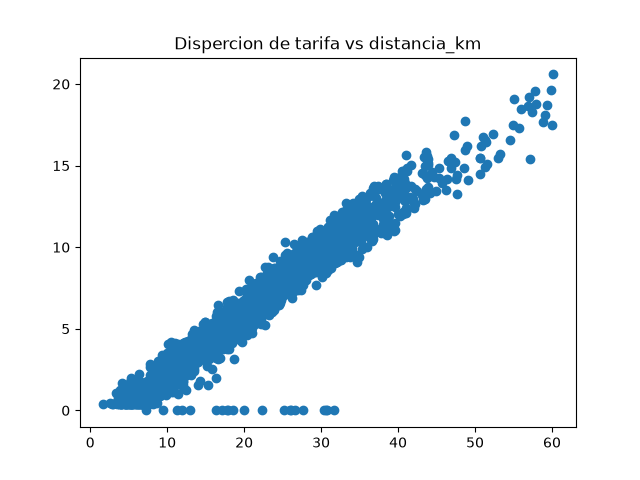
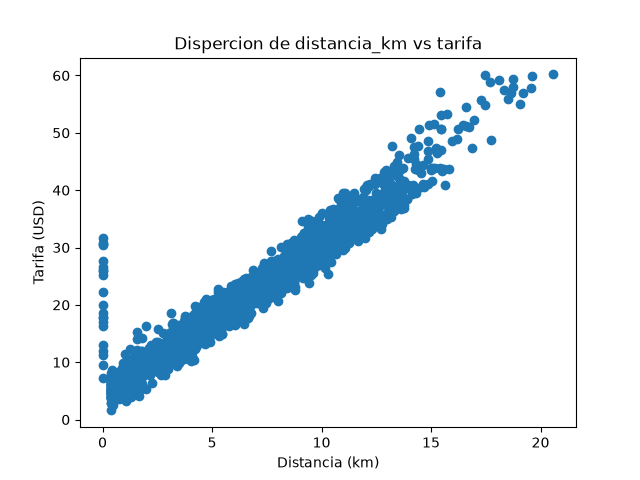
Semana 8 sesion 2: ejercicios 1, 2 y 3 de EDA

diff --git a/laboratorios/semana-08-sesion-02/plantilla-eda/explorar_proyecto.py b/laboratorios/semana-08-sesion-02/plantilla-eda/explorar_proyecto.py
@@ -5,13 +5,48 @@ import pandas as pd
 
 os.makedirs("figuras", exist_ok=True)
 
-# TODO: reemplaza por la ruta del archivo que tu pipeline de la Semana 7
-# deja listo para modelar (una tabla del warehouse exportada a CSV, o el
-# CSV limpio de tu etapa de calidad).
-datos = pd.read_csv("TODO_ruta_del_archivo.csv")
+# El archivo tiene 59 millones de filas (13 GB descomprimido), no entra en memoria.
+# Lo leo por partes (chunks): de cada parte cuento los totales exactos y
+# guardo una muestra al azar del 1% para los graficos.
+RUTA = "datos/obt_sales.csv.gz" #pandas lee el .gz directo, no hay que descomprimirlo
+COLUMNAS = [
+    "DATE", "ITEM_ID", "CAT_ID", "STORE_ID", "STATE_ID", "UNITS", "SELL_PRICE",
+    "REVENUE", "WEEKDAY", "IS_WEEKEND", "MONTH", "YEAR", "IS_EVENT_DAY", "IS_SNAP",
+    "IS_PRE_LAUNCH", "IS_STORE_CLOSED", "IS_SALES_SPIKE", "IS_SUSPECTED_STOCKOUT_CONSERVATIVE",
+]
 
 # TODO: reemplaza por el nombre de la columna que tu modelo va a predecir.
-OBJETIVO = "TODO_columna_objetivo"
+OBJETIVO = "UNITS" #unidades vendidas de un producto en una tienda en un dia
+
+total_filas = 0
+faltantes = 0
+ceros = 0
+pre_lanzamiento = 0
+tienda_cerrada = 0
+sin_stock = 0
+muestras = []
+
+for parte in pd.read_csv(RUTA, usecols=COLUMNAS, chunksize=2_000_000):
+    total_filas += len(parte)
+    faltantes = faltantes + parte.isna().sum() #va sumando los vacios de cada columna
+    ceros += (parte[OBJETIVO] == 0).sum()
+    pre_lanzamiento += parte["IS_PRE_LAUNCH"].sum()
+    tienda_cerrada += parte["IS_STORE_CLOSED"].sum()
+    sin_stock += parte["IS_SUSPECTED_STOCKOUT_CONSERVATIVE"].sum()
+    muestras.append(parte.sample(frac=0.01, random_state=42)) #1% al azar de cada parte
+
+datos = pd.concat(muestras, ignore_index=True)
+
+print("----- TOTALES EXACTOS DEL ARCHIVO COMPLETO -----")
+print("Filas totales:", total_filas)
+print("Faltantes por columna:")
+print(faltantes)
+print(f"Dias con {OBJETIVO} = 0: {ceros} ({ceros / total_filas:.1%})")
+print(f"Filas antes del lanzamiento del producto: {pre_lanzamiento} ({pre_lanzamiento / total_filas:.1%})")
+print(f"Filas con tienda cerrada: {tienda_cerrada}")
+print(f"Filas con sospecha de falta de stock: {sin_stock} ({sin_stock / total_filas:.1%})")
+
+print("----- DESDE AQUI TODO ES CON LA MUESTRA DEL 1% -----")
 
 # Paso 1: resumen.
 print("Filas y columnas:", datos.shape)
@@ -20,9 +55,24 @@ print(datos.isna().sum())
 print(datos.describe().round(2))
 
 # Paso 2: distribucion de la variable objetivo.
-plt.figure()
-plt.hist(datos[OBJETIVO], bins=40)
-plt.title(OBJETIVO)
+# Con un histograma normal todo cae en la primera barra: casi todo esta entre 0 y 5
+# pero el maximo es 544. Por eso hago dos graficos y sin los dias antes del lanzamiento.
+vendiendo = datos[~datos["IS_PRE_LAUNCH"]] #el ~ es para negar, me quedo con los que no son pre lanzamiento
+conteo = vendiendo[OBJETIVO].value_counts().sort_index().loc[0:20] #cuantos dias con 0, 1, 2... hasta 20 unidades
+
+fig, (izq, der) = plt.subplots(1, 2, figsize=(12, 4.5))
+izq.bar(conteo.index, conteo.values)
+izq.set_title(f"{OBJETIVO} de 0 a 20")
+izq.set_xlabel("Unidades vendidas en el dia")
+izq.set_ylabel("Numero de dias")
+
+der.hist(vendiendo[OBJETIVO], bins=60)
+der.set_yscale("log") #escala logaritmica para que se vea la cola de valores grandes
+der.set_title(f"{OBJETIVO} completo (eje y en escala log)")
+der.set_xlabel("Unidades vendidas en el dia")
+der.set_ylabel("Numero de dias (log)")
+
+plt.tight_layout()
 plt.savefig("figuras/distribucion_objetivo.png")
 plt.close()
 
@@ -37,6 +87,35 @@ print(fuera.head(10))
 # TODO, paso 4: elige la variable de entrada que esperas que mas influya
 # en el objetivo y grafica su relacion con el (dispersion si es numerica,
 # promedio del objetivo por grupo si es categorica).
+# Creo que el dia de la semana influye mucho: la gente compra mas el fin de semana.
+orden_dias = ["Monday", "Tuesday", "Wednesday", "Thursday", "Friday", "Saturday", "Sunday"]
+por_dia = datos.groupby("WEEKDAY")[OBJETIVO].mean().reindex(orden_dias)
+print(por_dia.round(2))
+
+plt.figure()
+plt.bar(por_dia.index, por_dia.values)
+plt.title("Unidades promedio por dia de la semana")
+plt.ylabel("Unidades promedio")
+plt.xticks(rotation=45)
+plt.tight_layout() #para que no se corten los nombres de los dias
+plt.savefig("figuras/unidades_por_dia.png")
+plt.close()
 
 # TODO, paso 5: agrega aqui las consultas que necesites para confirmar
 # cada uno de tus 3 hallazgos (un filtro, un groupby, una correlacion).
+
+# Hallazgo 1: los ceros antes del lanzamiento no son ventas reales
+print(datos.groupby("IS_PRE_LAUNCH").agg(
+    filas=(OBJETIVO, "count"),
+    unidades_promedio=(OBJETIVO, "mean"),
+    precio_vacio=("SELL_PRICE", lambda p: p.isna().sum()),
+))
+
+# Hallazgo 2: el objetivo esta muy concentrado en pocos valores
+print(datos[OBJETIVO].value_counts().head(6)) #cuantas filas tienen 0, 1, 2...
+print("Promedio:", round(datos[OBJETIVO].mean(), 2), "Mediana:", datos[OBJETIVO].median())
+print(datos.groupby("CAT_ID")[OBJETIVO].mean().round(2)) #por categoria
+
+# Hallazgo 3: REVENUE es UNITS por SELL_PRICE, no se puede usar para predecir
+print(datos[[OBJETIVO, "REVENUE", "SELL_PRICE"]].corr()[OBJETIVO].round(3))
+print(datos.groupby("IS_SNAP")[OBJETIVO].mean().round(2)) #dias con cupones de comida

diff --git a/laboratorios/semana-08-sesion-02/plantilla-ejercicio2/explorar_relaciones.py b/laboratorios/semana-08-sesion-02/plantilla-ejercicio2/explorar_relaciones.py
@@ -9,17 +9,45 @@ viajes = pd.read_csv("../starter/viajes_taxi.csv")
 # TODO 1: quita solo los errores que el Ejercicio 1 ya confirmo (tarifa
 # 999.99 y duracion negativa). No quites los demas atipicos. Imprime
 # cuantas filas quedan.
-limpios = viajes
+limpios = viajes.query('tarifa != 999.99 and duracion_min >= 0') #solo quito los errores, los viajes de JFK se quedan
+print('Filas que quedan:', len(limpios))
 
 # TODO 2: grafico de dispersion de distancia_km (eje x) contra tarifa
 # (eje y), guardado en figuras/distancia_vs_tarifa.png. Mira el grafico
 # antes de seguir: busca puntos que no sigan la tendencia general y
 # cuentalos con un filtro.
+plt.figure()
+plt.scatter(limpios['distancia_km'], limpios['tarifa'], s=5) #s es el tamaño de los puntos
+plt.title('Distancia vs tarifa')
+plt.xlabel('Distancia (km)')
+plt.ylabel('Tarifa (USD)')
+plt.savefig('figuras/distancia_vs_tarifa.png')
+plt.close()
+
+# en el grafico se ven dos grupos que no siguen la tendencia:
+# una linea horizontal en 70 (tarifa fija de JFK) y una columna en distancia 0
+tarifa_fija = limpios.query('tarifa == 70')
+print('Viajes con tarifa de 70:', len(tarifa_fija))
+print(tarifa_fija['zona_origen'].value_counts().head(3)) #ver si son de JFK
+print(tarifa_fija['zona_destino'].value_counts().head(3))
+
+distancia_cero = limpios.query('distancia_km == 0')
+print('Viajes con distancia 0:', len(distancia_cero))
+print(distancia_cero[['distancia_km', 'duracion_min', 'tarifa']].describe()) #si tienen duracion y tarifa, el viaje si existio
 
 # TODO 3: propina promedio y cantidad de viajes con propina 0, por
 # metodo de pago (groupby + agg).
+propinas = limpios.groupby('metodo_pago', dropna=False).agg( #dropna=False para ver tambien los que no tienen metodo de pago
+    propina_promedio=('propina', 'mean'),
+    viajes_sin_propina=('propina', lambda p: (p == 0).sum()),
+    total_viajes=('propina', 'count'),
+)
+print(propinas)
 
 # TODO 4: correlacion de distancia_km, duracion_min, pasajeros y propina
 # con la tarifa.
+print(limpios[['distancia_km', 'duracion_min', 'pasajeros', 'propina', 'tarifa']].corr()['tarifa']) #solo me quedo con la columna de tarifa
 
 # TODO 5: cuantos viajes tienen pasajeros vacio y cuantos tienen 0.
+print('Pasajeros vacio:', limpios['pasajeros'].isna().sum())
+print('Pasajeros en 0:', (limpios['pasajeros'] == 0).sum())

diff --git a/laboratorios/semana-08-sesion-02/starter/EDA.py b/laboratorios/semana-08-sesion-02/starter/EDA.py
@@ -2,7 +2,7 @@ import pandas as pd
 import os
 import matplotlib.pyplot as plt
 
-os.makedirs('/starter/figuras', exist_ok=True)
+os.makedirs('./starter/figuras', exist_ok=True)
 
 data = pd.read_csv('./starter/viajes_taxi.csv')
 
@@ -46,14 +46,25 @@ sin_atipicos = data.query(f' tarifa >= {limite_inferior} and tarifa <= {limite_s
 
 print('Valores atipicos')
 print(atipicos) #LOS VALORES ATIPICOS SON PARA ANALIZARLOS PORQUE TE ESTAN DICIENDO QUE PASA ALGO
+print('Cantidad de atipicos:', len(atipicos))
+
+# -------------- REVISAR SI LOS ATIPICOS SON ERRORES O NO
+
+print('Tarifas de 999.99:', (data['tarifa'] == 999.99).sum()) #esto es claramente un error de captura
+print('Duraciones negativas:', (data['duracion_min'] < 0).sum()) #no existe un viaje que dure menos de 0 minutos
+
+print(atipicos['zona_origen'].value_counts()) #vemos de donde salen los viajes atipicos
+print(atipicos['zona_destino'].value_counts()) #y a donde llegan, muchos son del aeropuerto JFK
 
 #------------AHORA PODEMOS VER LAS CORRELACIONES (PEARSON-> ASUME LINEALIDAD, SPEARMAN-> CUANDO NO ASUME LINEALIDAD)
 
 plt.figure()
-plt.scatter(sin_atipicos['tarifa'], sin_atipicos['distancia_km'])
-plt.title('Dispercion de tarifa vs distancia_km')
+plt.scatter(sin_atipicos['distancia_km'], sin_atipicos['tarifa']) #distancia en el eje x, tarifa en el eje y
+plt.title('Dispercion de distancia_km vs tarifa')
+plt.xlabel('Distancia (km)')
+plt.ylabel('Tarifa (USD)')
 plt.savefig('./starter/figuras/dispercion_distancia_vs_tarifa_sinatipicos.png')
 plt.close()
 
-print(data.corr())
+print(data.corr(numeric_only=True)) #solo con las columnas numericas, si no da error por las columnas de texto
 

diff --git a/laboratorios/semana-08-sesion-02/README.md b/laboratorios/semana-08-sesion-02/README.md
@@ -28,17 +28,24 @@ A partir de la lectura previa:
 
 **Según el artículo, ¿qué preguntas responde la exploración de datos antes de entrenar cualquier modelo?**
 
-_(tu respuesta)_
+Básicamente, ¿con qué datos estoy trabajando? El artículo lo divide en tres pasos:
+
+1. Resumen general: cuántas filas y columnas hay, de qué tipo son, cuántos faltantes y cuántos duplicados.
+2. Cómo es cada variable y cómo se relaciona con las demás: su distribución, valores fuera de rango, y qué variables se parecen o influyen en el objetivo.
+3. Calidad de los datos: faltantes, datos desbalanceados, columnas llenas de ceros, duplicados y variables repetidas o que filtran información (data leakers).
 
 **El artículo distingue la exploración de una sola variable de la exploración de la relación entre dos. ¿Qué herramienta propone para cada una?**
 
-_(tu respuesta)_
+- Una sola variable (análisis univariado): estadísticas descriptivas y gráficos según el tipo. Para numéricas, histograma (con media, desviación y cuantiles); para categóricas, gráfico de barras con la tabla de frecuencias.
+- Relación entre dos (análisis multivariado): gráficos de interacción, que básicamente son de dispersión entre dos variables, y correlaciones, que se ven en una matriz o en un mapa de calor (heatmap).
+
+Para hacer todo esto de una vez recomienda la librería `ydata-profiling`, que genera un reporte completo con una sola línea de código.
 
 ## Pregunta de apertura
 
 Entrenas un modelo que predice la tarifa de un viaje en taxi. Sin que lo sepas, 15 de los 3000 viajes tienen una tarifa de 999.99 por un error de captura. ¿Qué le pasa al modelo? ¿Lo notarías mirando solo su resultado final?
 
-_(tu respuesta)_
+El modelo aprende mal, porque esos 15 valores tan grandes jalan el promedio hacia arriba y hacen que prediga tarifas más altas de lo normal. Mirando solo el resultado final seguramente no lo notaría, solo vería un error un poco más alto. Por eso hay que revisar los datos antes de entrenar.
 
 ## Ejercicio 1: resumen, distribución y atípicos
 
@@ -46,29 +53,26 @@ Enunciado: [`starter/viajes_taxi.csv`](./starter/viajes_taxi.csv) tiene 3000 via
 
 **Respuesta 1, antes de ver la solución:** en `describe()`, ¿qué dos valores de la tabla te harían sospechar de un error sin necesidad de graficar nada?
 
-_(tu respuesta)_
+1. El máximo de la tarifa es 999.99, que parece un valor puesto por error. Son 15 viajes.
+2. El mínimo de la duración es -74 minutos, y un viaje no puede durar tiempo negativo. Son 10 viajes.
 
 **Respuesta 2:** la regla del IQR marca más de 300 viajes con tarifa atípica. ¿Esperas que todos sean errores? ¿Cómo lo averiguarías?
 
-_(tu respuesta)_
+No, no todos son errores. El IQR marcó 334 viajes con tarifa mayor a 60.40, pero solo 15 son los de 999.99. Para averiguarlo agrupé los atípicos por zona de origen y destino, y 320 de los 334 son viajes del aeropuerto JFK (177 salen de JFK y 143 llegan a JFK). Además, 302 cobran justo 70.00, que es la tarifa fija del aeropuerto, así que son tarifas reales.
 
 **La formulación completa, tal como la resuelvo yo:**
 
-_(anota aquí el script y lo que encontró, mientras se revisa en clase)_
+Script: [`starter/EDA.py`](./starter/EDA.py), lo corro con `docker compose up --build` y las figuras se guardan en `datacontenedor/`.
+
+- Reviso el dataset con `info()`, `isna()`, `duplicated()` y `describe()`. No hay duplicados, pero faltan 120 valores en `pasajeros` y 60 en `metodo_pago`.
+- Hago un histograma y un boxplot de la tarifa. La mitad de los viajes está entre 14 y 33 USD. En el histograma se ven tres grupos: la mayoría de viajes entre 0 y 60, un grupo aparte de unos 300 viajes cerca de 70, y una barra sola en 1000 (los errores de 999.99). En el boxplot esos dos grupos aparecen como puntos fuera de los bigotes.
+- Con el IQR saco los atípicos (334) y veo que la mayoría son viajes de JFK.
+- Hago la dispersión de distancia contra tarifa sin los atípicos: la tarifa sube casi en línea recta con la distancia, pero hay una columna de viajes con distancia 0 y tarifas de hasta unos 30 USD, que reviso en el Ejercicio 2.
+- Errores confirmados que hay que quitar: las 15 tarifas de 999.99 y las 10 duraciones negativas. Los demás atípicos se quedan porque son viajes reales.
 
 ## Durante el ConcepTest
 
-**Tu voto, antes de discutir en pareja** (A, B, C o D):
-
-_(tu voto)_
-
-**Tu razonamiento:**
-
-_(tu respuesta)_
-
-**Después de discutir en pareja, ¿cambiaste de voto? ¿Por qué?**
-
-_(tu respuesta)_
+_No se realizó ConcepTest en esta sesión._
 
 ## Ejercicio 2: relaciones entre variables
 
@@ -76,15 +80,18 @@ Solo o en pareja. Parte de la plantilla [`plantilla-ejercicio2/explorar_relacion
 
 **Hallazgo 1: qué muestra el gráfico de distancia contra tarifa, además de la tendencia general.**
 
-_(tu hallazgo, con el número que lo confirma)_
+Después de quitar los errores quedan 2975 viajes. La tarifa sube casi en línea recta con la distancia (correlación de 0.96), pero hay dos grupos que no siguen esa tendencia:
+
+- Una línea horizontal en 70 USD: son 300 viajes y todos son de JFK (165 salen y 135 llegan al aeropuerto). Es la tarifa fija, así que ahí la distancia no importa.
+- Una columna en distancia 0: son 25 viajes con duración promedio de 27 minutos y tarifa promedio de 28.71 USD. El viaje sí pasó, pero la distancia no se registró bien.
 
 **Hallazgo 2: qué pasa con la propina según el método de pago, y si crees que describe a los pasajeros o al sistema que registra los datos.**
 
-_(tu hallazgo, con el número que lo confirma)_
+Los 888 viajes pagados en efectivo tienen propina 0, mientras que con tarjeta ningún viaje tiene propina 0 y el promedio es 4.73 USD. Creo que esto describe al sistema y no a los pasajeros: la propina en efectivo se le da en mano al conductor y no queda registrada. Además, hay 60 viajes sin método de pago.
 
 **Hallazgo 3: la duración tiene una correlación con la tarifa tan alta como la distancia. Si el modelo tiene que estimar la tarifa en el momento en que alguien pide el taxi, ¿puede usar la duración?**
 
-_(tu respuesta)_
+No. La duración tiene una correlación de 0.96 con la tarifa, pero solo se conoce cuando el viaje ya terminó. Si alguien pide el taxi todavía no sabemos cuánto va a durar, así que el modelo no la puede usar. Lo mismo pasa con la propina. También vi que hay 119 viajes con pasajeros vacío y 19 con pasajeros en 0, que habría que revisar antes de usar esa columna.
 
 ## Ejercicio 3: explora el dataset de tu proyecto
 
@@ -94,13 +101,18 @@ Usa el archivo que tu pipeline de la Semana 7 deja listo para modelar, y la plan
 
 Reemplaza la ruta del archivo y el nombre de la columna que tu modelo va a predecir. Corre los pasos 1 a 3.
 
-_(filas, columnas, faltantes por columna, y cuántos atípicos marcó el IQR en tu objetivo)_
+Mi dataset es `obt_sales.csv.gz` (ventas diarias de Walmart por producto y tienda) y el objetivo es `UNITS`, las unidades vendidas en un día. El archivo tiene 59,181,090 filas y 40 columnas, y pesa 13 GB descomprimido. Por eso lo leo por partes: cuento los totales sobre todo el archivo y uso una muestra al azar del 1% (591,811 filas) para los gráficos. Para comprobar que la muestra representa bien al archivo, comparé dos porcentajes: los días con 0 unidades son 68.0% en el archivo completo y 68.0% en la muestra, y los días antes del lanzamiento son 20.8% en los dos.
+
+- Faltantes: solo `SELL_PRICE` y `REVENUE`, con 12,299,413 vacíos cada una (20.8%).
+- El 68% de las filas tiene `UNITS = 0`.
+- En `figuras/distribucion_objetivo.png` (sin los días antes del lanzamiento): con un histograma normal todo caía en la primera barra, así que lo separé en dos. A la izquierda, barras de 0 a 20 unidades: el 0 es por mucho el valor más común y después cada valor tiene menos días. A la derecha, el eje y en escala logarítmica muestra una cola larga con pocos días de más de 100 unidades y uno de 544.
+- El IQR marcó 70,346 atípicos en la muestra (11.9%). Como Q1 = 0 y Q3 = 1, cualquier día con 3 unidades o más ya cuenta como atípico.
 
 ### Paso 2: relaciones (10 minutos)
 
 Completa los pasos 4 y 5: la relación entre tu objetivo y la variable que esperas que más influya, y las consultas que confirman lo que encuentres.
 
-_(qué gráfico o consulta hiciste, y qué mostró)_
+Hice un gráfico de barras con las unidades promedio por día de la semana (`figuras/unidades_por_dia.png`). El fin de semana se vende más: sábado 1.36 y domingo 1.35 unidades, contra 0.97 el miércoles, que es el día más bajo (unos 40% más). También comparé por categoría (FOODS 1.65, HOUSEHOLD 0.73, HOBBIES 0.57) y por días con cupones SNAP (1.22 contra 1.09 sin SNAP).
 
 ### Paso 3: tres hallazgos que afectarían el modelado (10 minutos)
 
@@ -108,15 +120,15 @@ Para cada hallazgo, escribe qué encontraste, el número o el gráfico que lo co
 
 **Hallazgo 1:**
 
-_(tu hallazgo)_
+12,299,413 filas (20.8%) son días antes de que el producto empezara a venderse (`IS_PRE_LAUNCH`). En todas esas filas `UNITS` es 0 y el precio está vacío, así que no son ventas en cero reales, sino días en que el producto todavía no existía en la tienda. Hay que quitarlas antes de entrenar, porque si no el modelo aprende a predecir ceros de más.
 
 **Hallazgo 2:**
 
-_(tu hallazgo)_
+Las ventas están muy concentradas en pocos valores: la mediana es 0, el promedio es 1.13 y el máximo es 544. Incluso sin contar los días antes del lanzamiento, cerca del 60% de los días tienen 0 unidades. Además, 1,946,313 días (3.3%) tienen sospecha de falta de stock, o sea que el cero es porque no había producto. El IQR no sirve para quitar atípicos aquí, porque marca como atípico cualquier día con 3 unidades o más. En el modelo hay que transformar el objetivo (por ejemplo con logaritmo) o usar un modelo para conteos, y revisar los días sin stock.
 
 **Hallazgo 3:**
 
-_(tu hallazgo)_
+`REVENUE` tiene una correlación de 0.71 con `UNITS`, pero no se puede usar, porque se calcula como `UNITS × SELL_PRICE`: solo se conoce después de vender. Es lo mismo que pasaba con la duración en los taxis. `SELL_PRICE` sí se puede usar, porque el precio se conoce antes de vender (su correlación con `UNITS` es -0.15).
 
 ## Antes de la próxima sesión
 
@@ -124,4 +136,7 @@ _(tu hallazgo)_
 
 La tarifa fija de JFK y la hora del día no existen como columnas del dataset de taxis. ¿Cómo le darías esa información a un modelo?
 
-_(tu respuesta)_
+Creando columnas nuevas a partir de las que ya existen:
+
+- JFK: una columna `es_jfk` que vale 1 si el viaje sale o llega al aeropuerto y 0 si no. Así el modelo aprende que esos viajes cuestan 70 sin importar la distancia, que es la línea horizontal del Ejercicio 2.
+- Hora del día: sacarla de `fecha_hora_inicio` (por ejemplo con `pd.to_datetime(...).dt.hour`). También se puede agrupar con menos detalle, como hora pico o no, o madrugada, día y noche, que es la idea de granularidad del artículo. Igual con el día de la semana o si es fin de semana.
